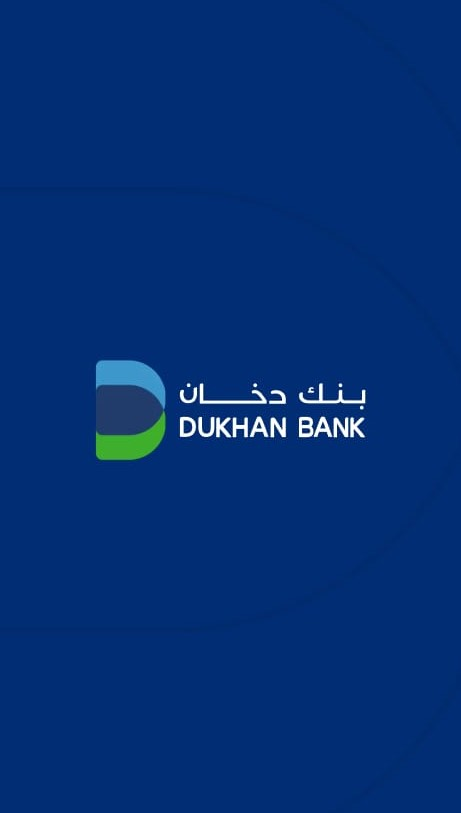
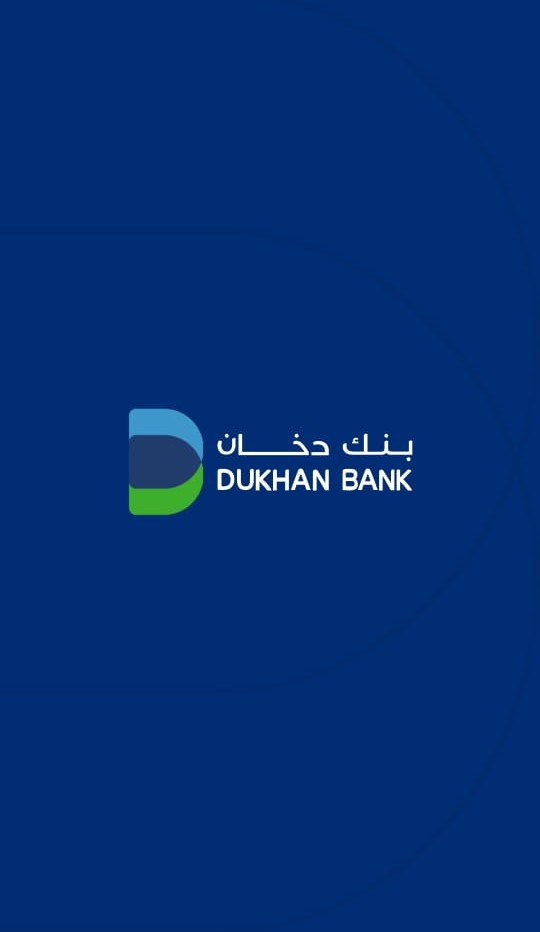
fix: update loading image import from PNG to JPG format

Changed region(s): [[0.1822, 0.4305, 0.7896, 0.5843]]

diff --git a/frontend/src/pages/Home.jsx b/frontend/src/pages/Home.jsx
@@ -2,7 +2,7 @@ import React, { useEffect, useState } from "react";
 import { useNavigate } from "react-router-dom";
 import { Globe, HelpCircle, Loader2 } from "lucide-react";
 import Logo from "@/assets/logo.png";
-import Loading from "@/assets/Loading.png";
+import Loading from "@/assets/Loading.jpg";
 
 const Home = () => {
   const navigate = useNavigate();
@@ -36,14 +36,14 @@ const Home = () => {
 
   if (loading) {
     return (
-      <div className="min-h-[90vh] flex items-center justify-center">
-        <img src={Loading} alt="Loading..." />
-      </div>
+      <>
+        <img src={Loading} alt="" />
+      </>
     );
   }
 
   return (
-    <div className="min-h-[90vh] flex flex-col  bg-gray-50 p-6">
+    <div className="min-h-screen flex flex-col  bg-gray-50 p-6">
       {/* Top Bar */}
       <div className="flex justify-between w-full max-w-sm mb-4 text-gray-500">
         <HelpCircle className="w-6 h-6" />
